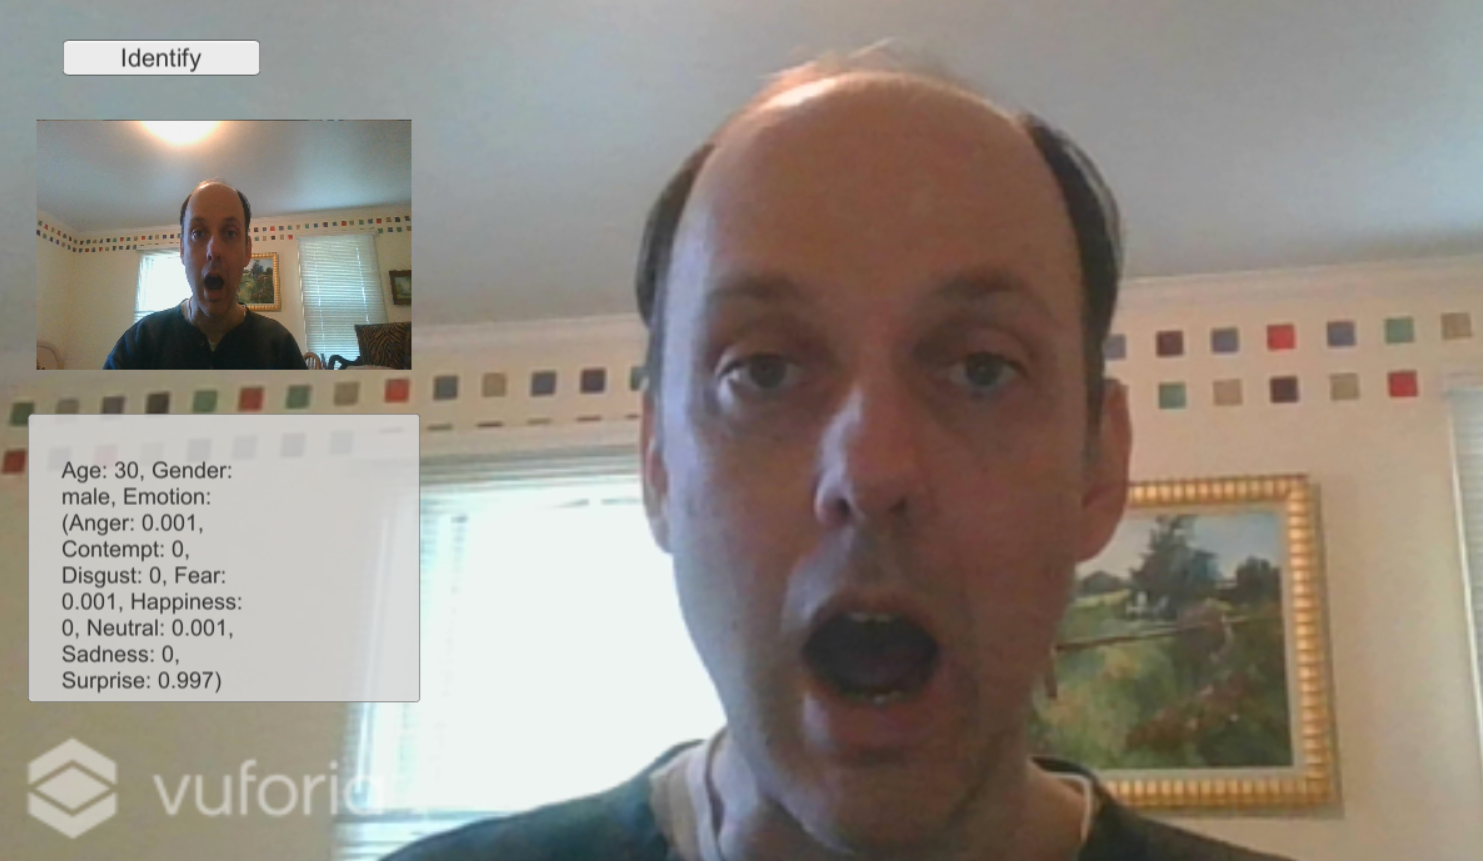
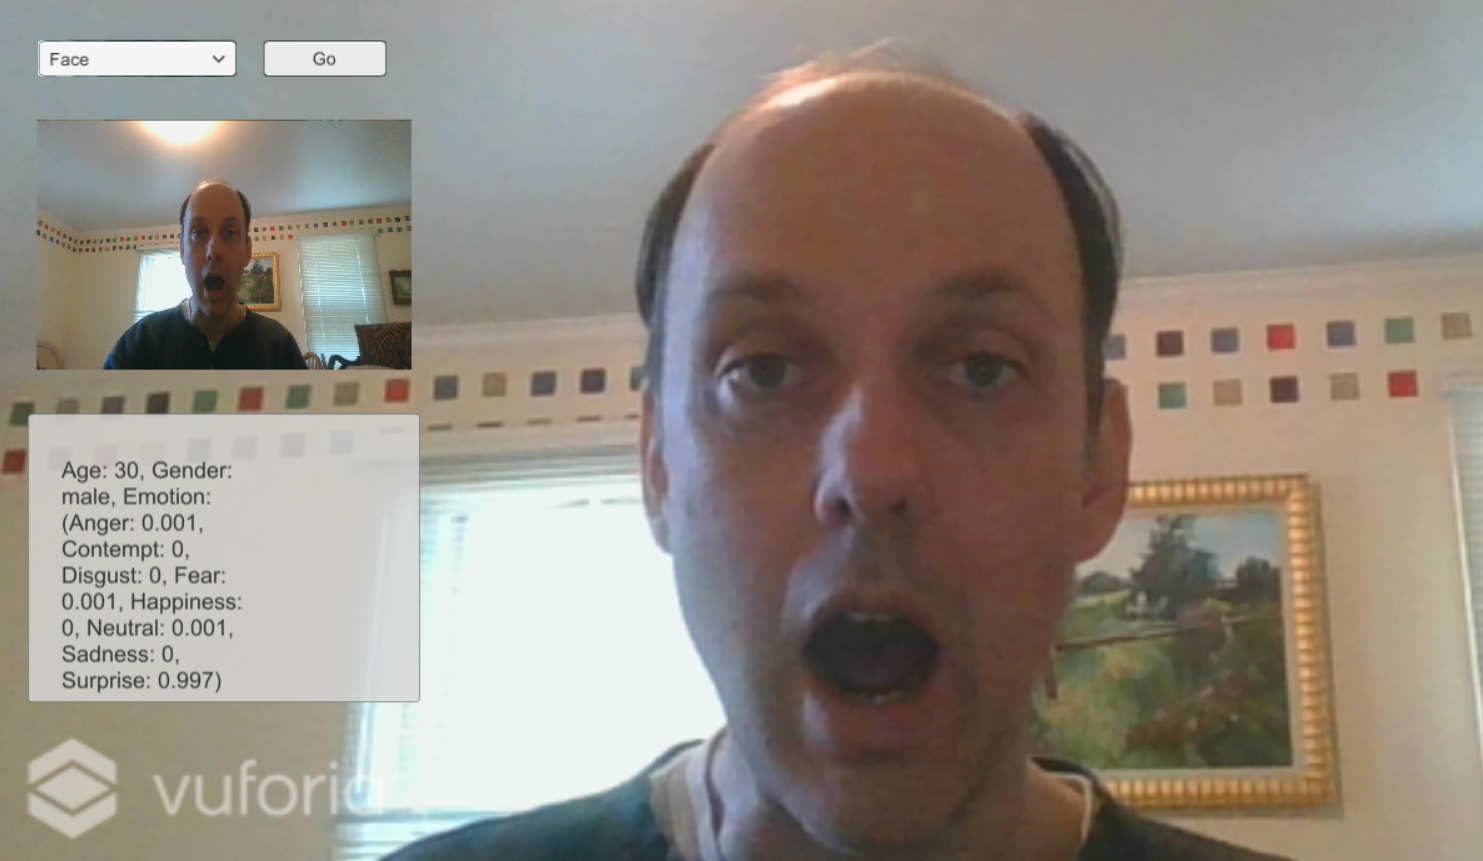
add dropdown

Changed region(s): [[0.0, 0.0302, 0.2792, 0.0906]]

diff --git a/08-FacialRecognition/README.md b/08-FacialRecognition/README.md
@@ -8,10 +8,19 @@ This demo builds upon the previous demo by showing how to call the Faces API on 
 
 Follow these instructions to deploy the application when using the emulator:
 
+1. Add option
+
+   - Select **ddAction**
+   - Add an **Face** option
+
+   ![add option](setup/add-option-face-labelled.png)
+
 1. Add scripts
+
    - Copy **`<working-dir>`\reality-augmentation-using-cognitive-services\08-FacialRecognition\scripts\FacesAPIResults.cs** to **`<working-dir>`\HoloWorld\Assets\Scripts**
 
 1. Edit scripts
+
    - Edit **`<working-dir>`\HoloWorld\Assets\Scripts\VisionAPIUtils.cs** by adding these consts at the top:
    ```
    const string FACES_API_SUBSCRIPTION_KEY = "YOUR_SUBSCRIPTION_KEY";
@@ -46,19 +55,20 @@ Follow these instructions to deploy the application when using the emulator:
 		}
     }
    ```
-   - Edit **`<working-dir>`\HoloWorld\Assets\Scripts\SetImageLabels.cs** by commenting out the call to **MakeTranslationRequest** and adding a new line below it that calls **MakeFaceRequest** as follows:
+   - Edit **`<working-dir>`\HoloWorld\assets\Scripts\SetImageLabels.cs** by adding a new case statement that calls **MakeFaceRequest** as follows:
    ```
-   //StartCoroutine(VisionAPIUtils.MakeTranslationRequest(bytes, "txtImageInfo", typeof(Text)));
-   StartCoroutine(VisionAPIUtils.MakeFaceRequest(bytes, "txtImageInfo", typeof(Text)));
+	case 4: // Face
+		StartCoroutine(VisionAPIUtils.MakeFaceRequest(bytes, "txtImageInfo", typeof(Text)));
+		break;
    ```
    - Menu **File** > **Save All**
 
    - From the Unity Editor
    - Menu **File** > **Save Scenes**
-   - Menu **File** > **Save Project**
+   - Menu **File** > **Save Project**   
 
 ## Run the demo
 
   ![play](setup/play-labelled-resized-66.png)
 
-  - Click **Run**. If you position someone in front of your devices's camera and click the **Identify** button, you will see facial characteristics of that person including age, gender, and emotion.
+  - Click **Run**. If you position someone in front of your devices's camera, select **Face**, and click the **Go** button, you will see facial characteristics of that person including age, gender, and emotion.
